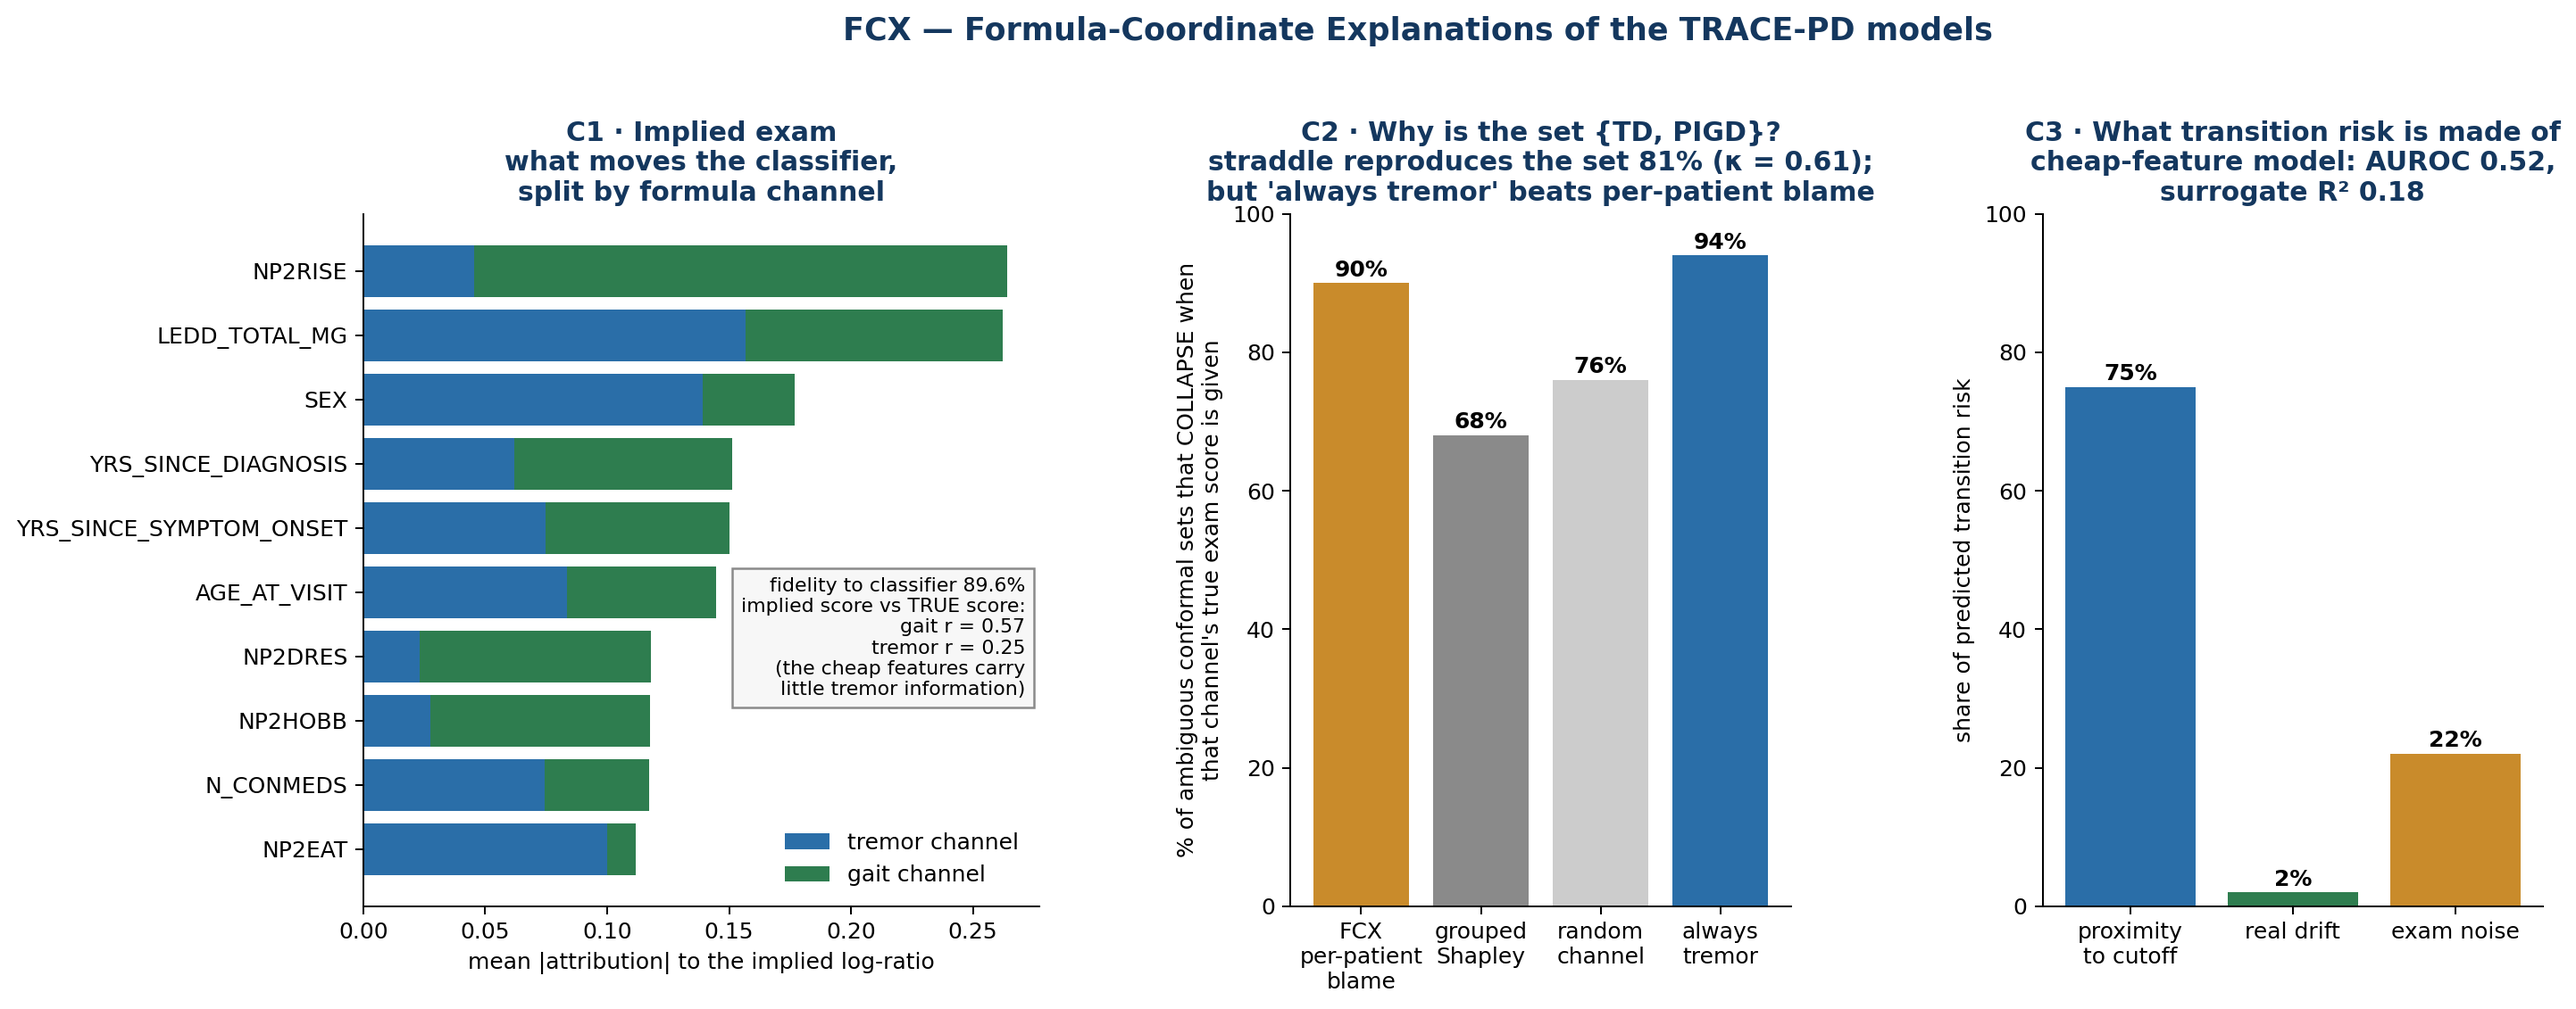
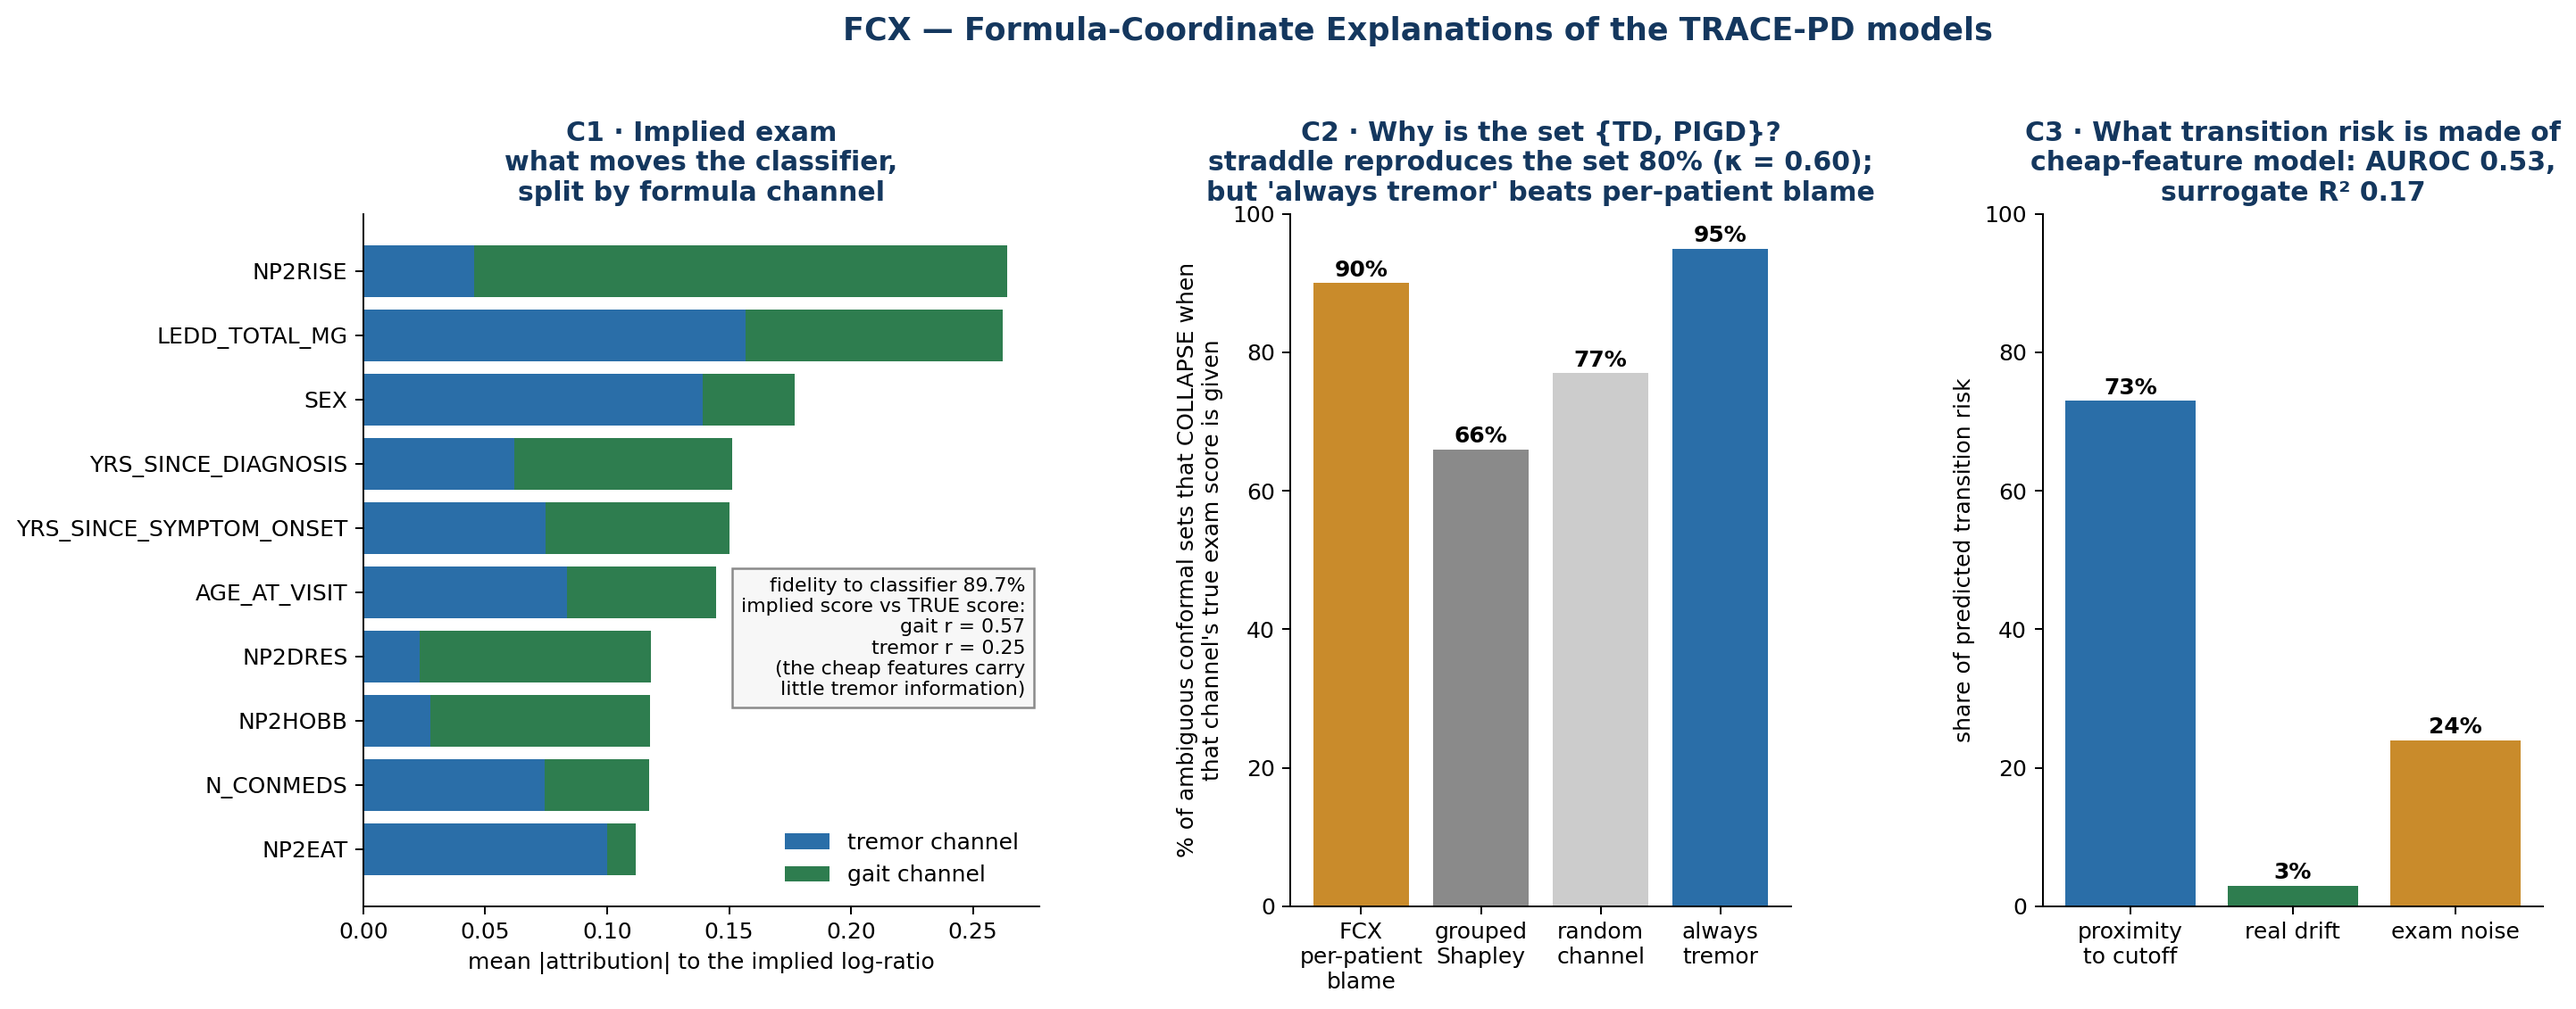
FCX: post-audit XGBoost results
Re-run on XGBoost after the audit fixes. Every conclusion matches the
sklearn run: C1 fidelity 89.7%; C2 kappa 0.60, tremor exam collapses 95%
of ambiguous sets, per-patient blame 90% vs always-tremor 95%; C3
exam-informed AUROC 0.77 / R^2 0.61, synthetic planted 3/3.
docs/fcx.md section 4: side-by-side table.

diff --git a/docs/fcx.md b/docs/fcx.md
@@ -17,12 +17,10 @@ a tremor channel vs a gait channel. Every explanation is scored against the true
 Everything is our own implementation, including the Shapley estimator (no SHAP/LIME
 dependency); SHAP-style attribution appears only as the **baseline**.
 
-**Model-agnostic, checked:** the pre-audit run on XGBoost matched sklearn gradient boosting
-almost exactly (C1 fidelity 89.7% vs 89.6%; C2 κ 0.60 vs 0.61).
-
 > **Status 30 Sep, after a code audit.** An independent review found 15 issues; all are fixed
-> (§5). Three of them changed what we can claim — read §5 before quoting any number. The numbers
-> below are the **post-audit sklearn run**. The post-audit XGBoost re-run is pending.
+> (§5). Three of them changed what we can claim — read §5 before quoting any number. The tables
+> below show the **post-audit sklearn run**; the **post-audit XGBoost run** is in §4 and agrees
+> with it.
 
 ![FCX summary](../reports/figures/fig_fcx_summary.png)
 
@@ -174,6 +172,34 @@ The strongest publishable pieces:
 1. The formula-coordinate fidelity results.
 2. The component-calibrated PDN surrogate with its planted-mechanism validation.
 3. The clinically actionable finding that **tremor is the missing information**.
+
+---
+
+## 4. Same framework, two black boxes — XGBoost vs sklearn (post-audit)
+
+FCX only uses a model's predictions, so its results should be close for any comparable black
+box. They are:
+
+| Metric | sklearn HGB | **XGBoost** |
+|---|---|---|
+| C1 fidelity — implied decision = classifier | 89.6% | **89.7%** |
+| C1 rank corr, P(PIGD) vs implied ratio | 0.923 | **0.928** |
+| C1 alignment — tremor / gait | 0.25 / 0.57 | 0.25 / 0.57 |
+| C1 error attribution (chance 0.50) | 0.47–0.53 | 0.44–0.50 |
+| C2 fidelity κ | 0.61 | **0.60** |
+| C2 null check (true vs shuffled) | 82% vs 77% | 82% vs 79% |
+| C2 real test — FCX blame / always-tremor | 90% / 94% | 90% / 95% |
+| C2 tremor exam / gait exam collapses ambiguous sets | 95% / 53% | 95% / 53% |
+| C3 E1 cheap — black-box AUROC / C3 R² | 0.52 / 0.18 | 0.53 / 0.16 |
+| C3 E2 exam-informed — AUROC / R² / proximity share | 0.77 / 0.62 / 83% | **0.77 / 0.61 / 80%** |
+| C3 E3 sustained — AUROC / R² | 0.79 / 0.56 | **0.80 / 0.52** |
+| C3 noise-vs-drift, E3 — C3 / grouped Shapley | 0.64 / 0.66 | 0.62 / 0.67 |
+| C3 planted — trained proximity-only / synthetic 3 mechanisms | PASS / 3/3 | **PASS / 3/3** |
+
+**Every conclusion holds on both black boxes**, including the negative ones.
+
+Sources: `reports/metrics/fcx_results.txt` · `fcx_results_xgb.txt` · `c3_validation.txt` ·
+`c3_validation_xgb.txt`.
 
 ---
 
